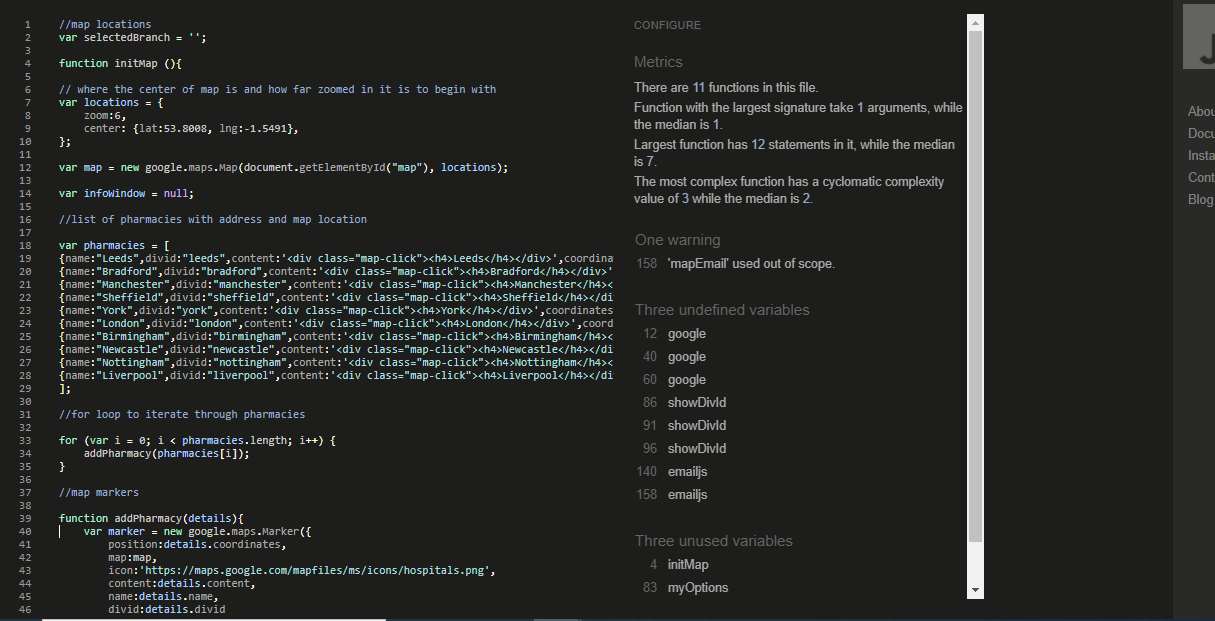
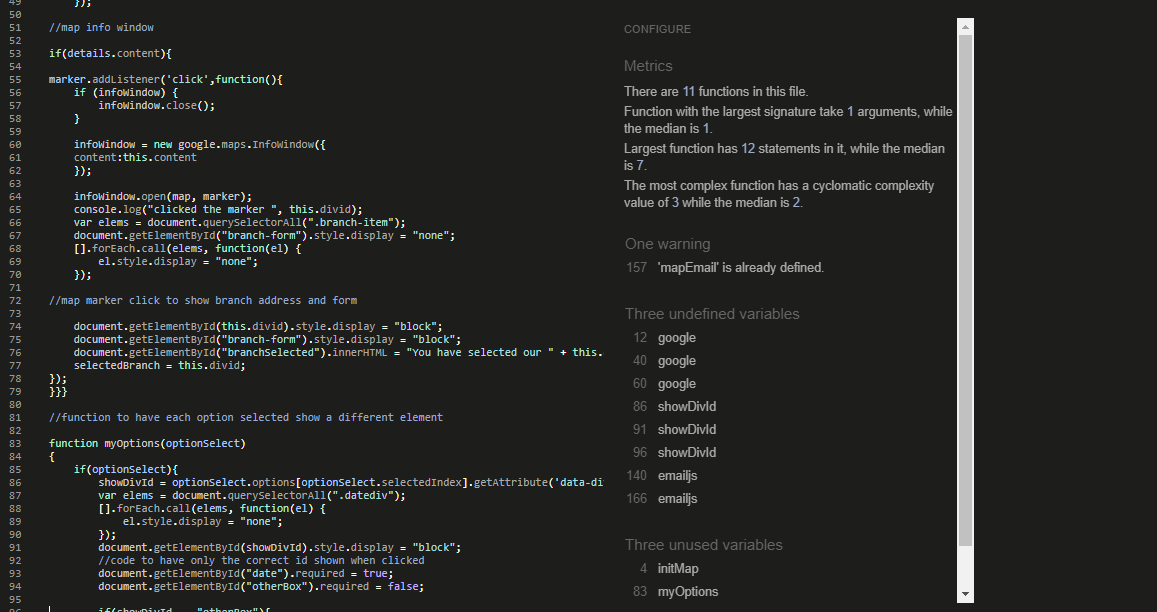
noticed email js not sending correctly, edited js code and uploaded picture for jshint to readme

diff --git a/assets/js/map.js b/assets/js/map.js
@@ -154,7 +154,15 @@ function sendEmailMap() {
                 }
         }
         else{
-                  // emailJs key 
+             var mapEmail ={
+                      branchChoice: branch,
+                      serviceSelected: service,
+					  fromEmailMap: email,
+                      otherBox: otherMessage,
+					  date: date,
+             };
+
+                    // emailJs key 
                   emailjs.send("service_mc16uvn","template_hsw25dm", mapEmail)
 				  .then(function(response){
 					  console.log("success", response.status);
